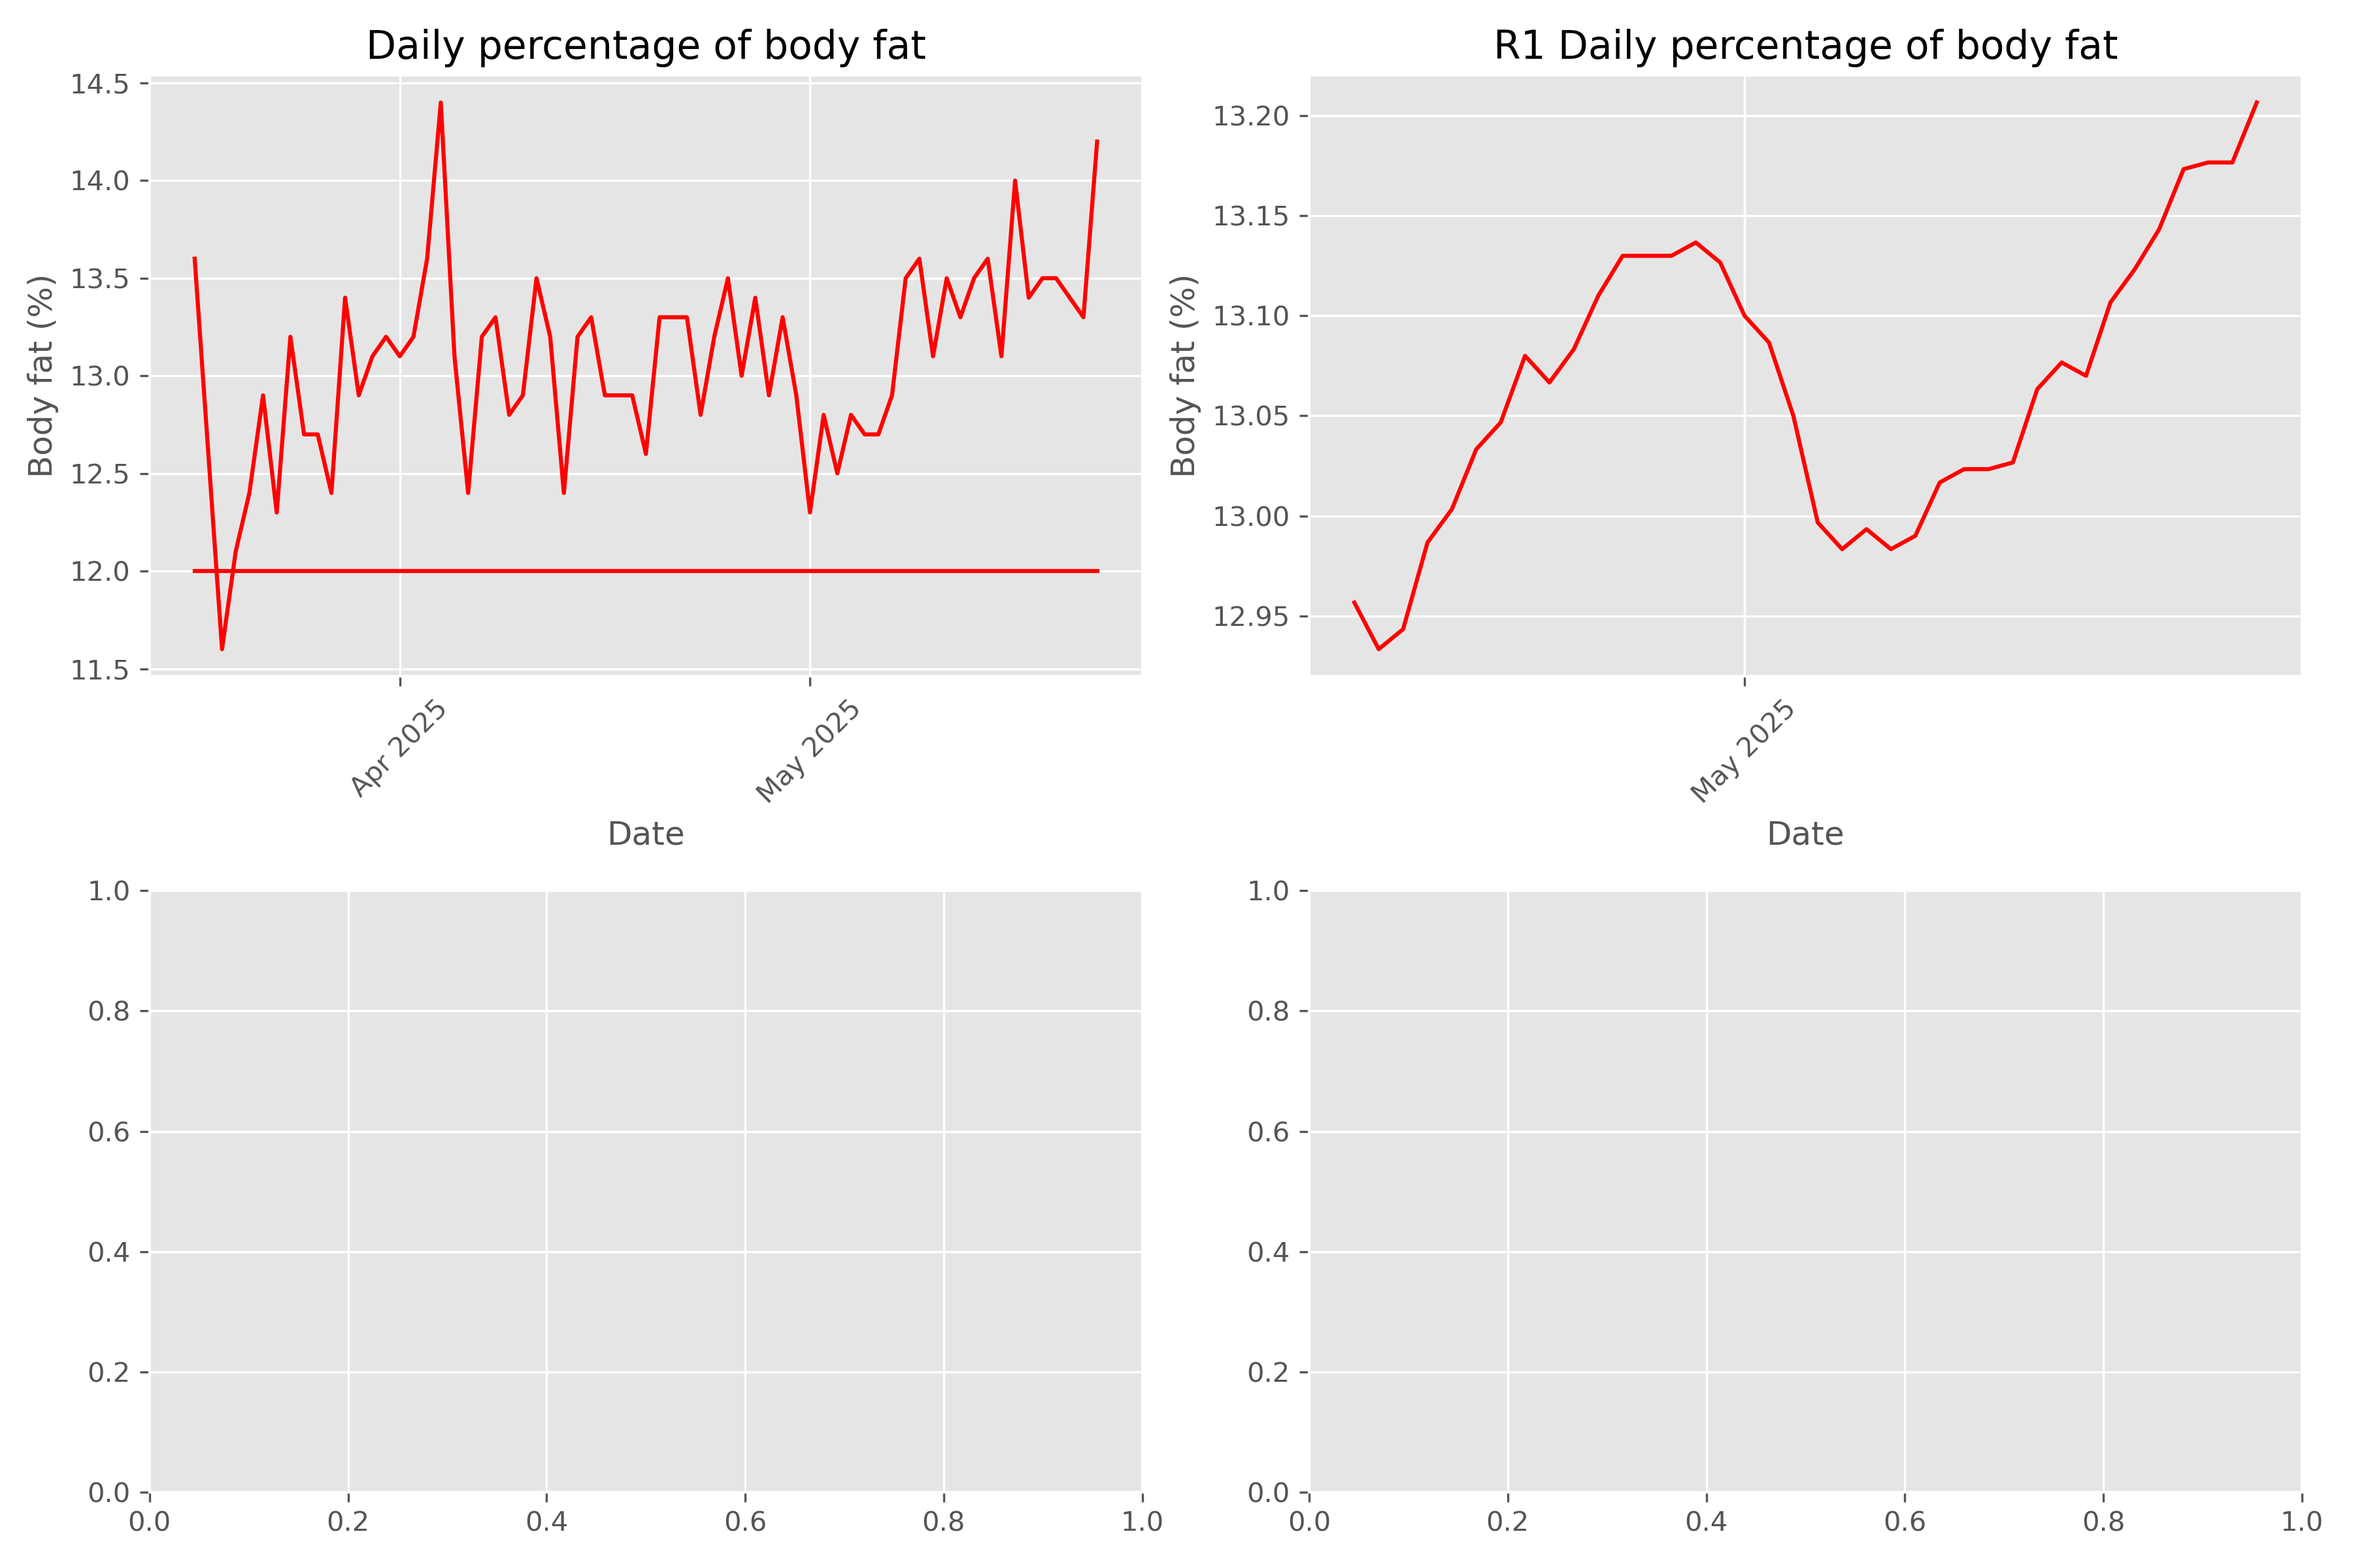
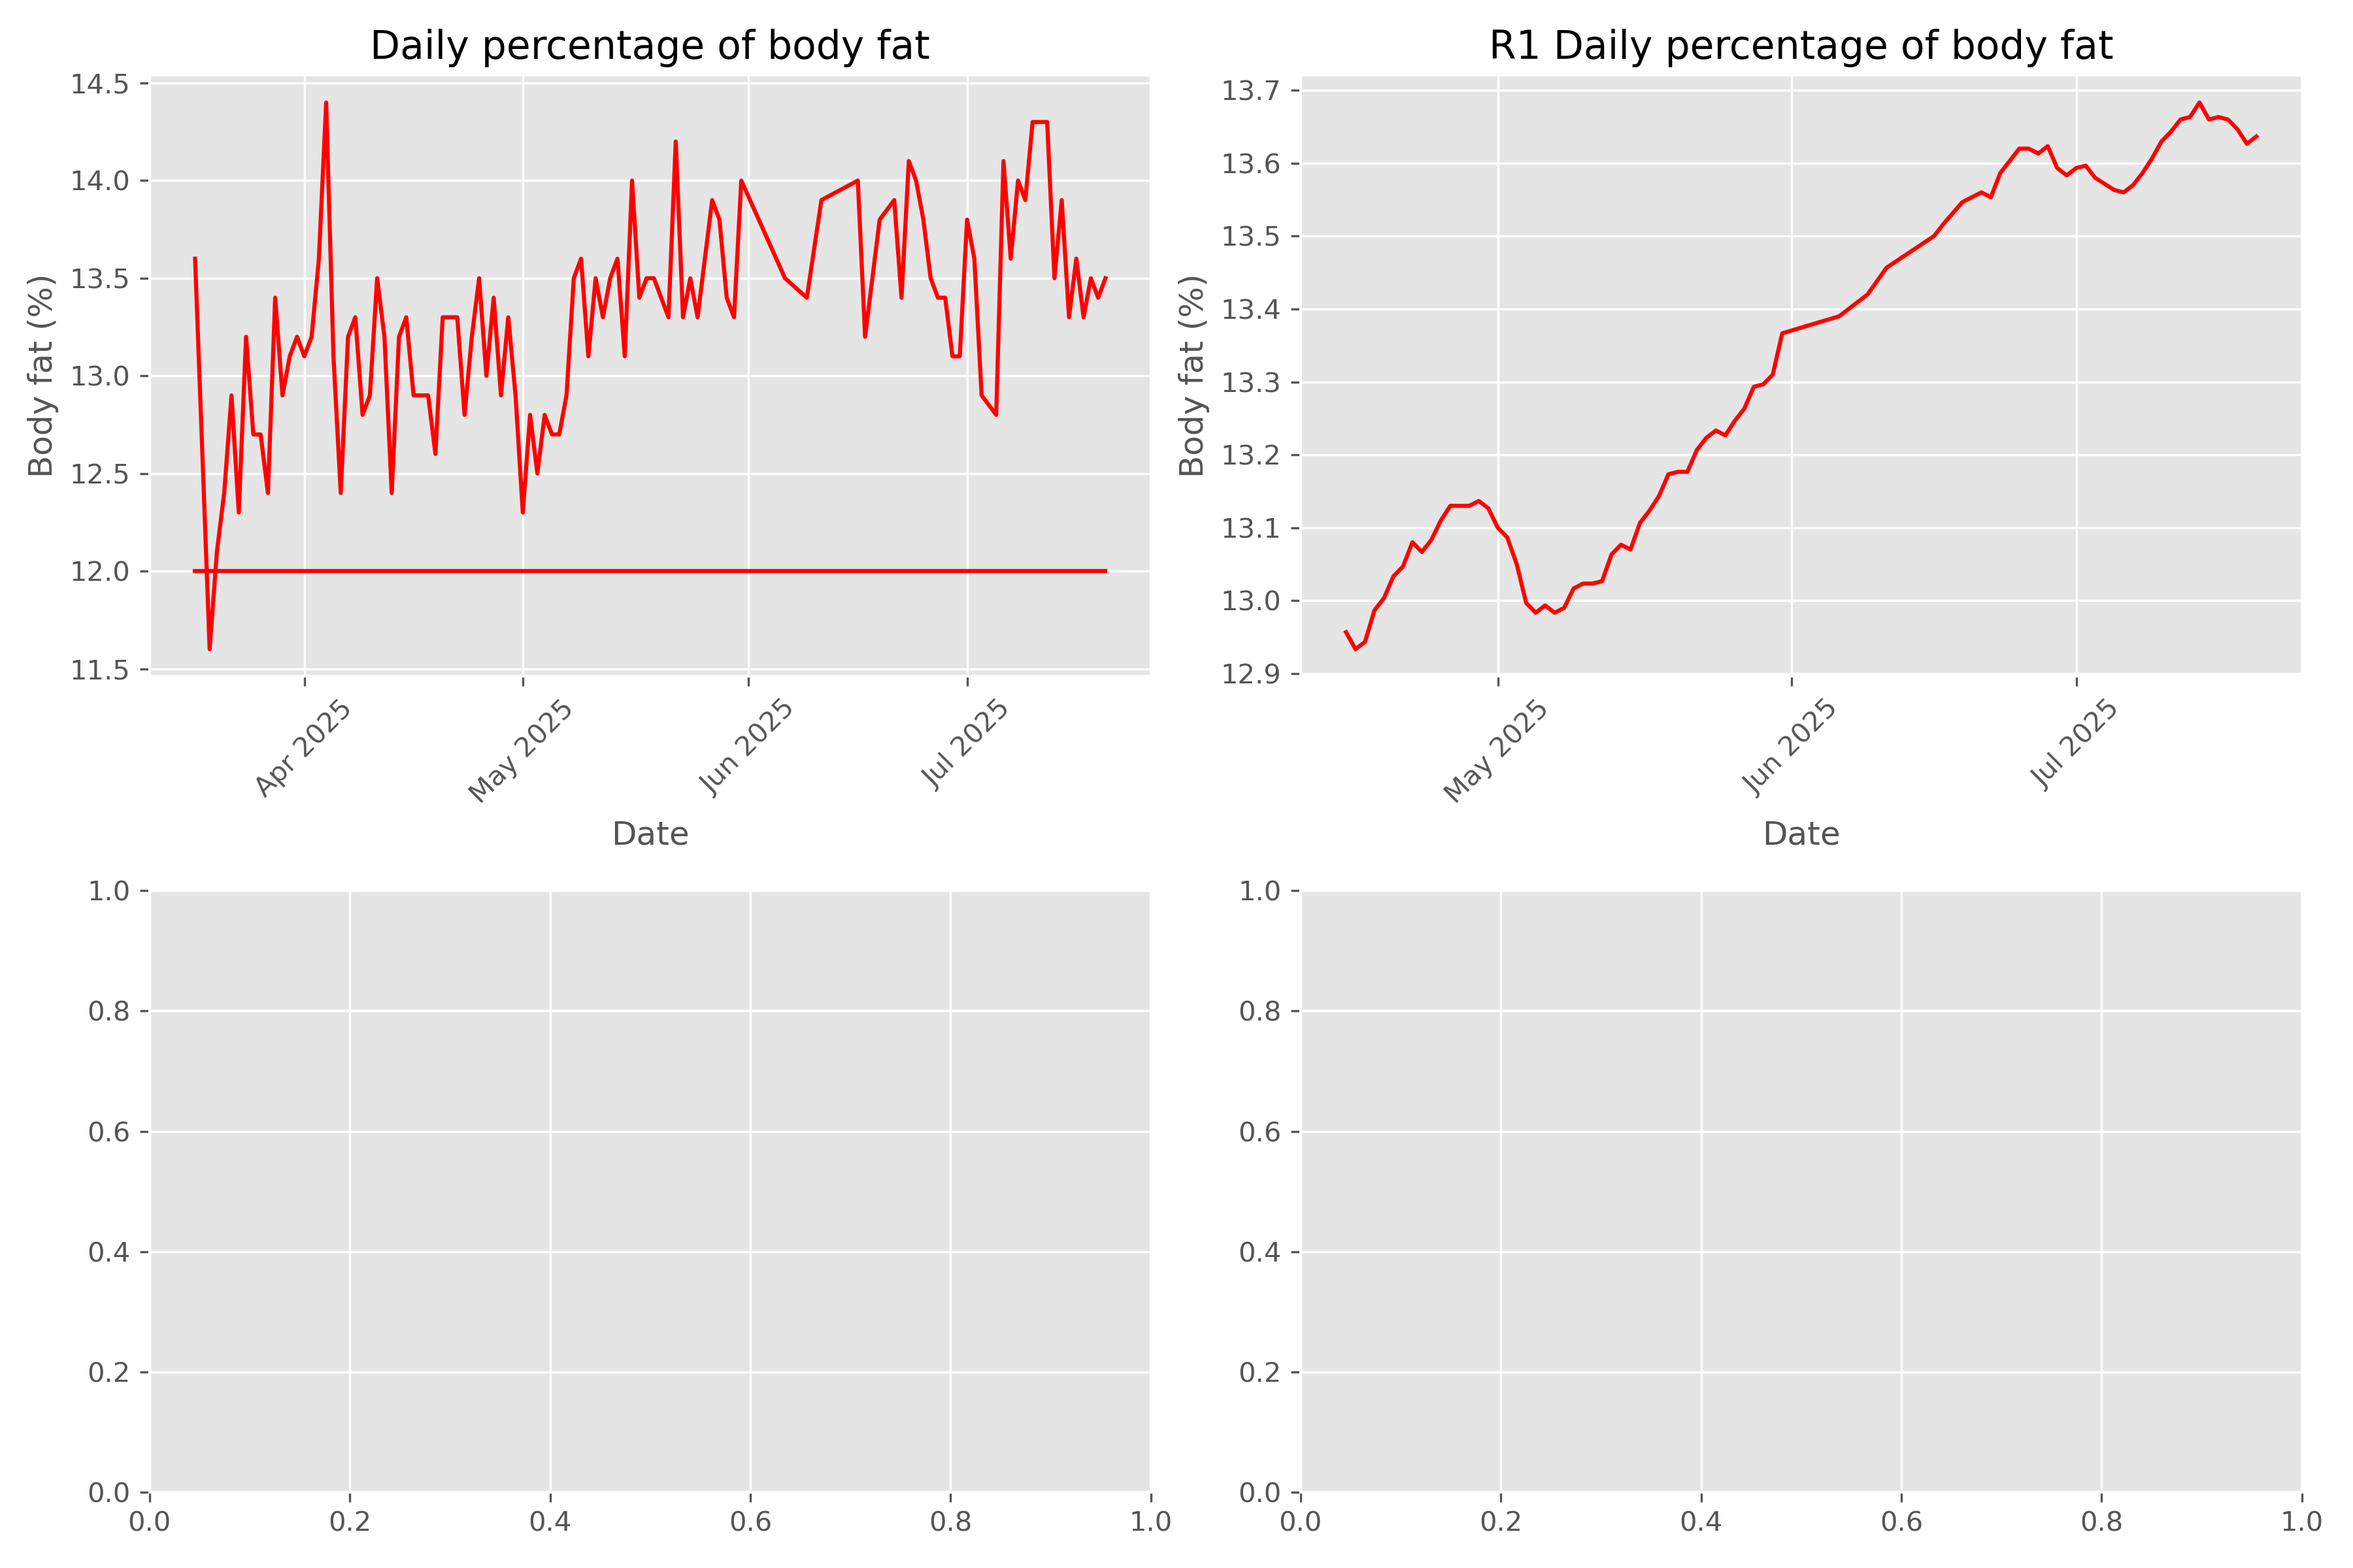
new data

diff --git a/update.py b/update.py
@@ -113,6 +113,22 @@ ax[0, 1].set_xlabel('Date')
 ax[0, 1].xaxis.set_major_formatter(mdates.DateFormatter("%b %Y"))
 ax[0, 1].xaxis.set_major_locator(mdates.MonthLocator())
 ax[0, 1].tick_params(axis='x', rotation=45)
+# Plot 3
+ax[1, 0].plot(protein_dt, protein_v.rolling(90).mean(), color='red')  # Média móvel em vez de soma/60
+ax[1, 0].set_ylabel('Protein (%)')
+ax[1, 0].set_title('R3 Tax daily protein (%)(90d avg)')
+ax[1, 0].set_xlabel('Date')
+ax[1, 0].xaxis.set_major_formatter(mdates.DateFormatter("%b %Y"))
+ax[1, 0].xaxis.set_major_locator(mdates.MonthLocator())
+ax[1, 0].tick_params(axis='x', rotation=45)
+# Plot 4
+ax[1, 1].plot(protein_dt, protein_v.rolling(120).mean(), color='red')  # Média móvel em vez de soma/60
+ax[1, 1].set_ylabel('Protein (%)')
+ax[1, 1].set_title('R6 Tax daily protein  (% 120d avg)')
+ax[1, 1].set_xlabel('Date')
+ax[1, 1].xaxis.set_major_formatter(mdates.DateFormatter("%b %Y"))
+ax[1, 1].xaxis.set_major_locator(mdates.MonthLocator())
+ax[1, 1].tick_params(axis='x', rotation=45)
 
 plt.tight_layout()
 plt.savefig('image/daily_protein.png', dpi=300)
@@ -138,6 +154,23 @@ ax[0, 1].set_xlabel('Date')
 ax[0, 1].xaxis.set_major_formatter(mdates.DateFormatter("%b %Y"))
 ax[0, 1].xaxis.set_major_locator(mdates.MonthLocator())
 ax[0, 1].tick_params(axis='x', rotation=45)
+# Plot 3
+ax[1, 0].plot(musc_dt, musc_v.rolling(90).mean(), color='red')  # Média móvel em vez de soma/60
+ax[1, 0].set_ylabel('Muscular mass (Kg) (%)')
+ax[1, 0].set_title('R3 daily muscular mass (90d avg)')
+ax[1, 0].set_xlabel('Date')
+ax[1, 0].xaxis.set_major_formatter(mdates.DateFormatter("%b %Y"))
+ax[1, 0].xaxis.set_major_locator(mdates.MonthLocator())
+ax[1, 0].tick_params(axis='x', rotation=45)
+# Plot 4
+ax[1, 1].plot(musc_dt, musc_v.rolling(120).mean(), color='red')  # Média móvel em vez de soma/60
+ax[1, 1].set_ylabel('Muscular mass (Kg')
+ax[1, 1].set_title('R6 daily muscular mass  (120d avg)')
+ax[1, 1].set_xlabel('Date')
+ax[1, 1].xaxis.set_major_formatter(mdates.DateFormatter("%b %Y"))
+ax[1, 1].xaxis.set_major_locator(mdates.MonthLocator())
+ax[1, 1].tick_params(axis='x', rotation=45)
+
 plt.tight_layout()
 plt.savefig('image/daily_muscular.png', dpi=300)
 plt.close()
@@ -153,7 +186,7 @@ ax[0, 0].set_xlabel('Date')
 ax[0, 0].xaxis.set_major_formatter(mdates.DateFormatter("%b %Y"))
 ax[0, 0].xaxis.set_major_locator(mdates.MonthLocator())
 ax[0, 0].tick_params(axis='x', rotation=45)
-## Plot 1
+## Plot 2
 ax[0, 1].plot(fat_dt, fat_v.rolling(30).mean(), color='red')
 ax[0, 1].set_ylabel('Body fat (%)')
 ax[0, 1].set_title('R1 Daily percentage of body fat')
@@ -161,16 +194,14 @@ ax[0, 1].set_xlabel('Date')
 ax[0, 1].xaxis.set_major_formatter(mdates.DateFormatter("%b %Y"))
 ax[0, 1].xaxis.set_major_locator(mdates.MonthLocator())
 ax[0, 1].tick_params(axis='x', rotation=45)
-
 # Plot 3
 ax[1, 0].plot(fat_dt, fat_v.rolling(90).mean(), color='red')  # Média móvel em vez de soma/60
 ax[1, 0].set_ylabel('Body fat (%)')
-ax[1, 0].set_title('R3 Daily percentage of body fat (90d avg)')
+ax[1, 0].set_title('R3 Daily Mass (90d avg)')
 ax[1, 0].set_xlabel('Date')
 ax[1, 0].xaxis.set_major_formatter(mdates.DateFormatter("%b %Y"))
 ax[1, 0].xaxis.set_major_locator(mdates.MonthLocator())
 ax[1, 0].tick_params(axis='x', rotation=45)
-
 
 plt.tight_layout()
 plt.savefig('image/body_fat.png', dpi=300)
@@ -187,14 +218,26 @@ ax[0, 0].set_xlabel('Date')
 ax[0, 0].xaxis.set_major_formatter(mdates.DateFormatter("%b %Y"))
 ax[0, 0].xaxis.set_major_locator(mdates.MonthLocator())
 ax[0, 0].tick_params(axis='x', rotation=45)
+
 # Plot 2
 ax[0, 1].plot(water_dt, water_v.rolling(30).mean(), color='red')
-ax[0, 1].set_ylabel('water')
+ax[0, 1].set_ylabel('water (Kg)')
 ax[0, 1].set_title('R1 Daily water')
 ax[0, 1].set_xlabel('Date')
 ax[0, 1].xaxis.set_major_formatter(mdates.DateFormatter("%b %Y"))
 ax[0, 1].xaxis.set_major_locator(mdates.MonthLocator())
 ax[0, 1].tick_params(axis='x', rotation=45)
+
+# Plot 3
+ax[1, 0].plot(water_dt, water_v.rolling(90).mean(), color='red')  # Média móvel em vez de soma/60
+ax[1, 0].set_ylabel('Water mass (Kg)')
+ax[1, 0].set_title('R3 Daily water mass (90d avg)')
+ax[1, 0].set_xlabel('Date')
+ax[1, 0].xaxis.set_major_formatter(mdates.DateFormatter("%b %Y"))
+ax[1, 0].xaxis.set_major_locator(mdates.MonthLocator())
+ax[1, 0].tick_params(axis='x', rotation=45)
+
+
 plt.tight_layout()
 plt.savefig('image/daily_water.png', dpi=300)
 plt.close()
